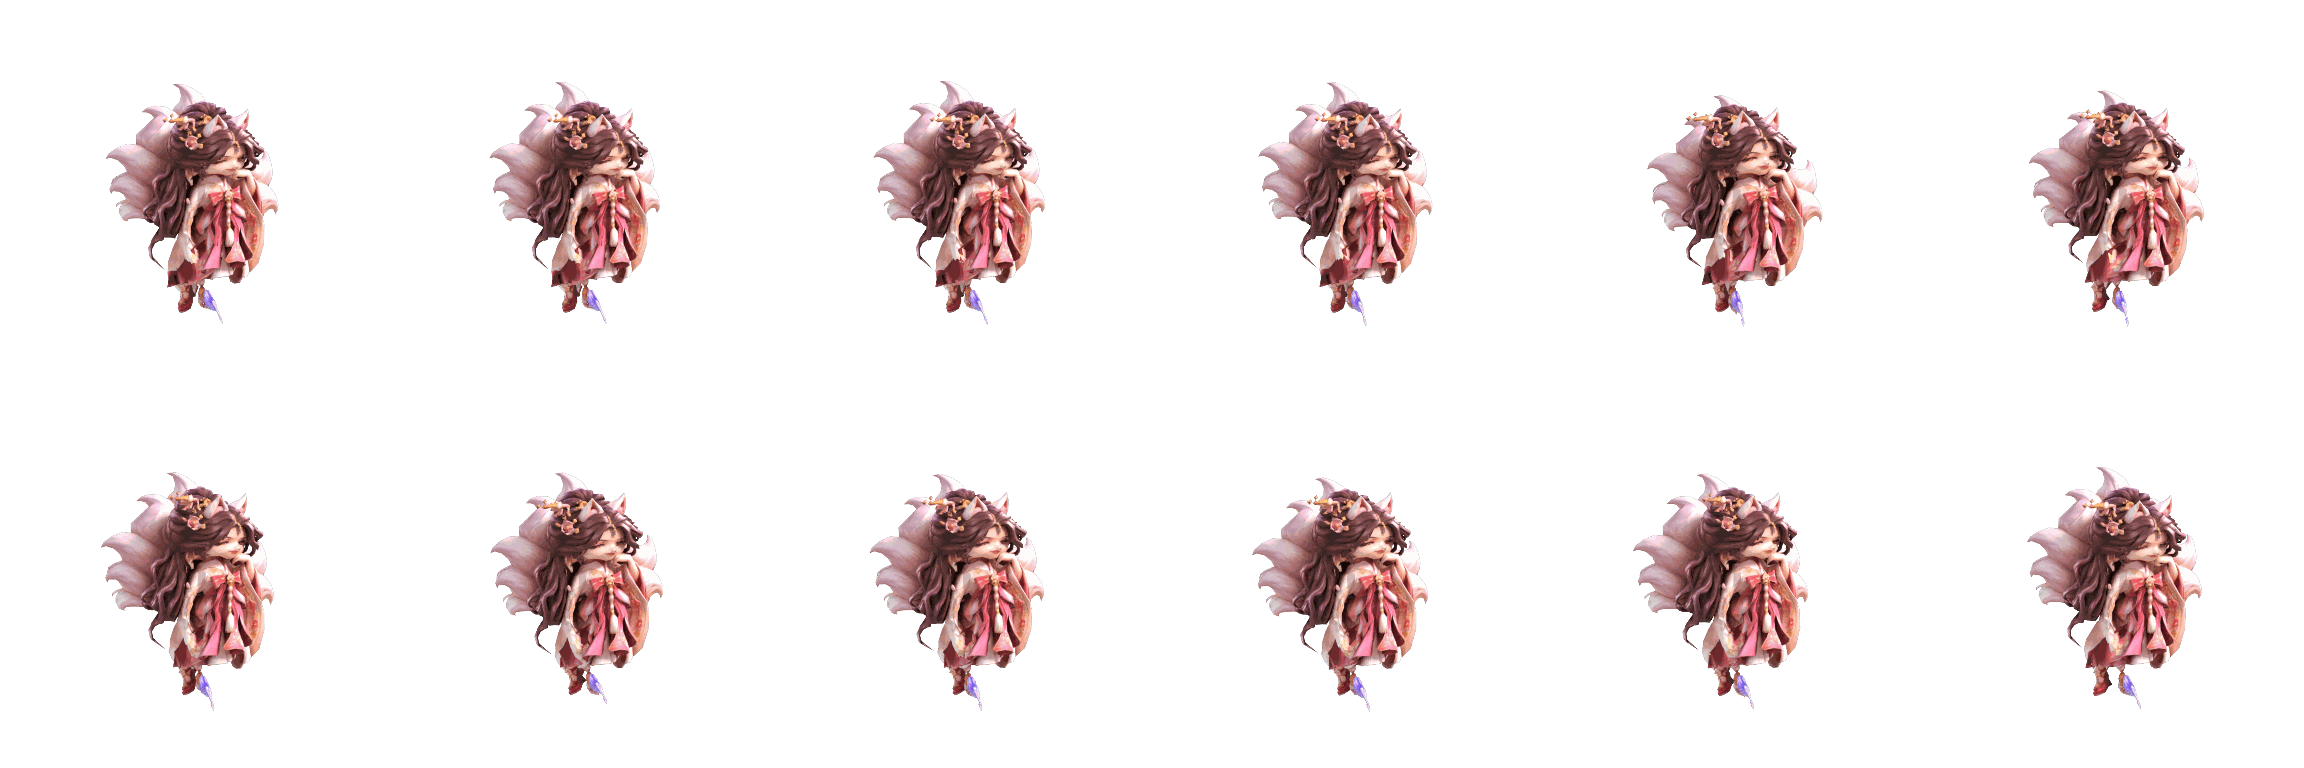
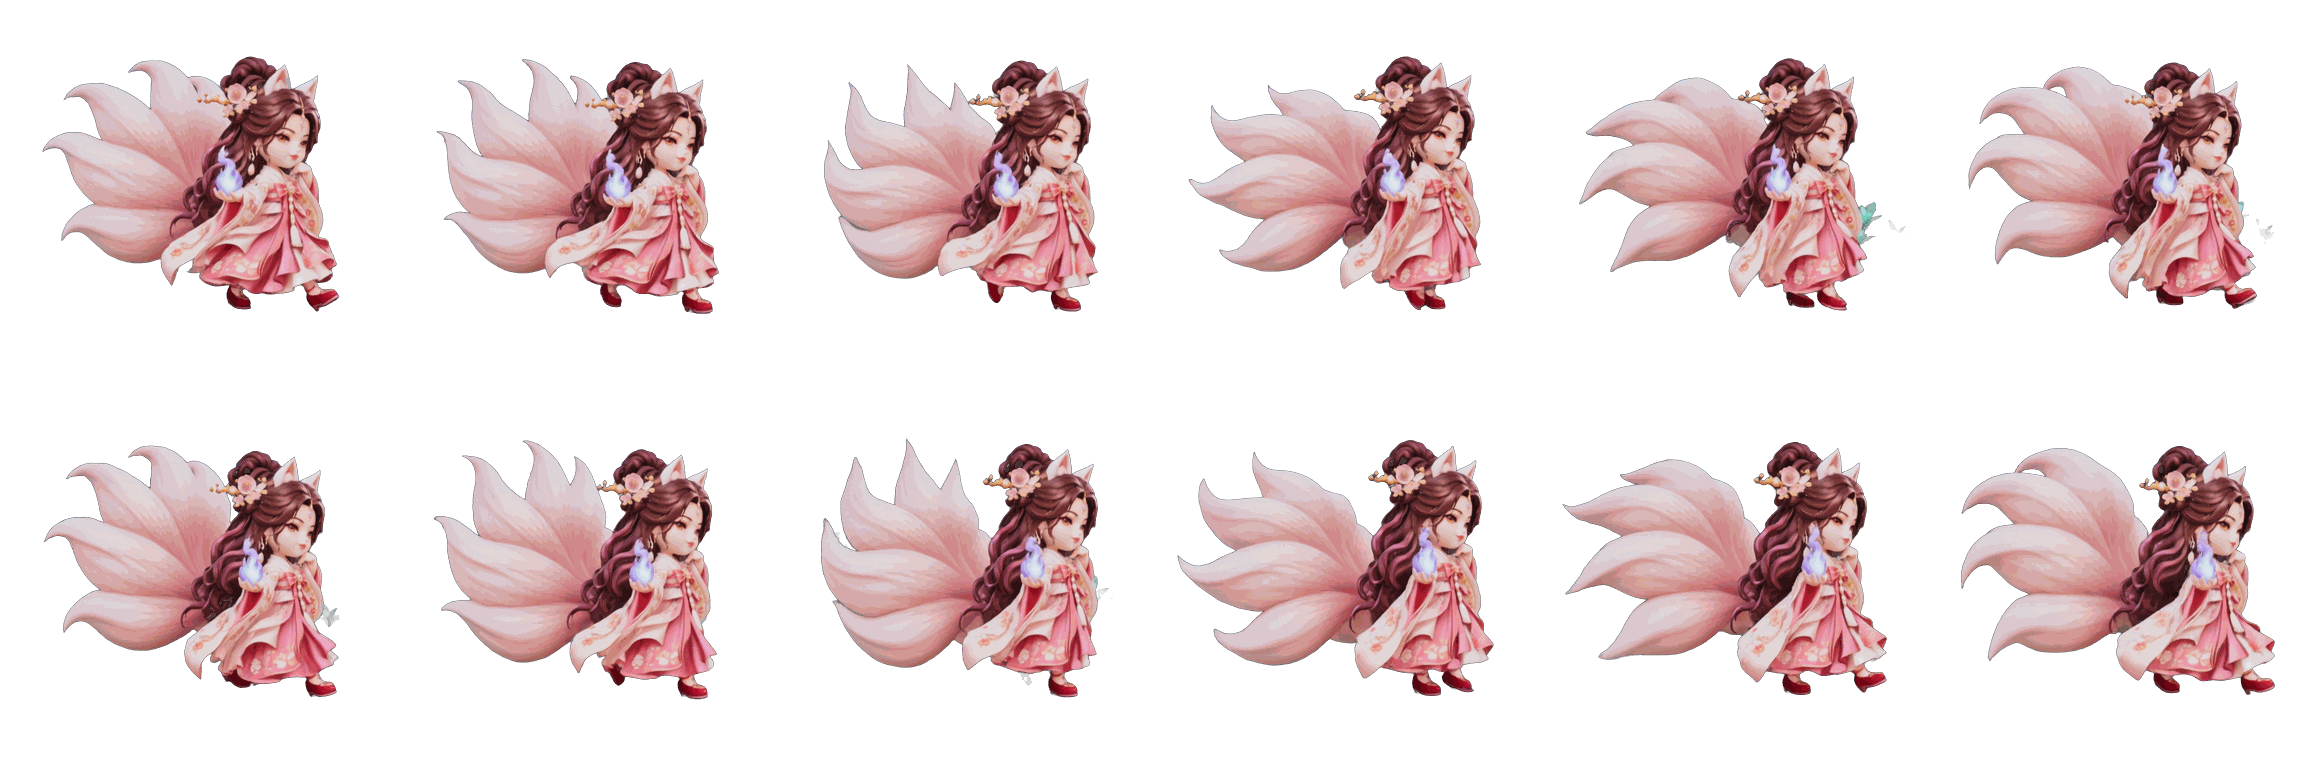
구미호 판 위 모형을 클링 영상 그림으로 바꿈 (시험)
- 사용자가 클링으로 만든 영상에서 걷기 12장을 뽑아 gumiho_walk·idle로 넣음
- tools/import_video_standee.py: 영상 → 배경 지우기 → 떨림 없이 6칸×2줄 그림

Claude-Session: https://claude.ai/code/session_01JPWR7ZFhvPeejBM3RB4Pqs

diff --git a/tools/import_video_standee.py b/tools/import_video_standee.py
@@ -1,0 +1,82 @@
+"""영상(클링 등)으로 만든 영웅 동작을 판 위 말 그림으로 넣는다.
+
+쓰는 법: python tools/import_video_standee.py <영상.mp4> <영웅 id> <동작> <처음 장면> <끝 장면> [키 비율]
+예: python tools/import_video_standee.py kling.mp4 gumiho walk 1 36
+- 영상을 장면별로 뜯고, 인공지능 배경 지우기(rembg, isnet-anime)로 인물만 남긴다.
+  (pip install "rembg[cpu]" 필요. 단색 바탕 영상이면 더 깨끗하다.)
+- 장면 범위 안에서 고르게 12장을 골라 6칸×2줄(칸 384) 그림으로 만든다.
+- 떨림 방지: 크기·가운데·발 높이를 장면마다 따로 재지 않고, 범위 전체에 걸쳐 부드럽게 이은 값(2차 곡선)으로 맞춘다.
+- 키 비율(기본 0.66)은 칸 높이에 대한 인물 전체(꼬리 포함) 높이. 발은 칸의 81.25% 땅선에 둔다.
+- 결과는 256색으로 줄여 assets/standees_anim/<id>_<동작>.png로 저장한다.
+"""
+import subprocess
+import sys
+import tempfile
+from pathlib import Path
+
+import numpy as np
+from PIL import Image
+
+ROOT = Path(__file__).resolve().parent.parent
+CELL = 384
+COLUMNS = 6
+FRAMES = 12
+FOOT = 0.8125
+
+
+def _cut(video: str, first: int, last: int) -> list:
+	from rembg import new_session, remove
+	work = Path(tempfile.mkdtemp())
+	subprocess.run(["ffmpeg", "-v", "error", "-i", video, str(work / "%03d.png")], check=True)
+	picks = np.linspace(first, last, FRAMES).round().astype(int)
+	session = new_session("isnet-anime")
+	frames = []
+	for number in picks:
+		image = remove(Image.open(work / ("%03d.png" % number)), session=session).convert("RGBA")
+		alpha = np.array(image)[:, :, 3]
+		alpha[alpha < 30] = 0
+		image.putalpha(Image.fromarray(alpha))
+		frames.append(image)
+	return frames
+
+
+def _smooth(values) -> np.ndarray:
+	x = np.arange(len(values))
+	return np.polyval(np.polyfit(x, values, 2), x)
+
+
+def build(frames: list, height_ratio: float) -> Image.Image:
+	boxes = []
+	for image in frames:
+		ys, xs = np.nonzero(np.array(image)[:, :, 3] > 128)
+		boxes.append((xs.min(), ys.min(), xs.max(), ys.max()))
+	heights = _smooth([b[3] - b[1] for b in boxes])
+	bottoms = _smooth([b[3] for b in boxes])
+	centers = _smooth([(b[0] + b[2]) / 2 for b in boxes])
+	target = CELL * height_ratio
+	# 가장 넓은 장면도 칸 안에 들어가게 줄인다.
+	shrink = min(1.0, min((CELL / 2 - 4) / max(1.0, max(c - b[0], b[2] - c) * target / h) for b, c, h in zip(boxes, centers, heights)))
+	sheet = Image.new("RGBA", (CELL * COLUMNS, CELL * (FRAMES // COLUMNS)), (0, 0, 0, 0))
+	for index, image in enumerate(frames):
+		scale = target / heights[index] * shrink
+		big = image.resize((max(1, int(image.width * scale)), max(1, int(image.height * scale))), Image.LANCZOS)
+		cell = Image.new("RGBA", (CELL, CELL), (0, 0, 0, 0))
+		cell.paste(big, (int(round(CELL / 2 - centers[index] * scale)), int(round(CELL * FOOT - bottoms[index] * scale))), big)
+		sheet.paste(cell, ((index % COLUMNS) * CELL, (index // COLUMNS) * CELL))
+	return sheet
+
+
+def main() -> None:
+	if len(sys.argv) < 6:
+		print(__doc__)
+		sys.exit(1)
+	video, hero, kind, first, last = sys.argv[1:6]
+	ratio = float(sys.argv[6]) if len(sys.argv) > 6 else 0.66
+	sheet = build(_cut(video, int(first), int(last)), ratio)
+	out = ROOT / "assets" / "standees_anim" / ("%s_%s.png" % (hero, kind))
+	sheet.quantize(256, method=Image.Quantize.FASTOCTREE).save(out, optimize=True)
+	print("넣음:", out.name)
+
+
+if __name__ == "__main__":
+	main()

diff --git a/CLAUDE.md b/CLAUDE.md
@@ -32,6 +32,7 @@
 - 소환 연출(2026-11-17, 기획서는 프로젝트 문서 `claude/주사위영웅전_소환연출기획.md`): `scripts/ui/summon_show.gd`(SummonShow, 전체 화면 한 장면). 별빛 제단 → 운명의 주사위 강림(누르거나 1.5초) → 승격(최고 등급까지 파랑→보라→금, 번쩍·흔들림) → 빛기둥 → 뒷면 카드 배치 → 차례로 뒤집기(★★★는 등장 컷: 금빛 배경·큰 초상화·음성·꽃가루) → 결과(확인·한 번 더). 건너뛰기 버튼과 자동 사진(`instant`)은 곧바로 결과 장면. 상점의 `_summon`이 `await show.play(app, 결과, 한 번 더 값)`으로 띄운다(결과는 연출 전에 저장됨). 그림은 `assets/ui_summon/`(바탕 bg_altar·bg_glory, 주사위 die_blue·purple·gold, 카드 뒷면 card_back_*, 앞면 틀 card_front_*[창 위치는 meta.json], 딱지 badge_new), 주문서 `codex_work/job_summon.md`, 넣는 도구 `tools/import_summon.py <out/summon>`. 그림이 없으면 단색으로 대신한다. 자동 사진 `09_summon`(결과)·`09a~09e`(연출 장면).
 - 타이틀 로고(2026-11-17): 사용자가 고른 ChatGPT 시안의 타이틀처럼 금빛 로고 `assets/logos/title.png`(주사위 엠블럼·월계수·보석, 글자 포함)·부제 리본 `title_ribbon.png`·금 마름모 `title_diamond.png`를 `title_screen.gd`의 `_build_art_title`이 키 아트 위에 올린다. 그림이 없으면 예전 글자 제목. 로고는 보라 보석이 지워지지 않게 가장자리와 이어진 자홍만 바탕으로 지웠다.
 - 3D 모델(트리포, 2026-11-16 시험): 꼬마 모형 그림 한 장을 트리포(Tripo) API로 3D 모델 → 뼈대 → 동작(idle·walk·slash)까지 만들고, 블렌더(화면 없이, GitHub 서버)로 찍어 12칸 가로 그림 `assets/standees_anim/<id>_<동작>.png`으로 넣는다(`GameData.standee_anims`, `board_view.gd`의 `piece_anims`: 이동 중이면 walk. 2026-11-18 사용자 지적으로 서 있을 때는 idle 그림의 첫 장면에 멈추고 `_breath`로 숨쉬기만 한다. 트리포 대기 동작은 고개를 두리번거려 목이 흔들려 보였다. 파티원 두 명은 선봉 뒤 양옆 ±0.46칸·0.22칸 위에 0.78배로 선다). 주문서는 `tripo/jobs.json`, 도구는 `tools/tripo_run.py`(API 키는 저장소 비밀값 `TRIPO_API_KEY`, 예전 v2 주소로 연결됨)·`tools/tripo_render.py`, 작업 흐름은 `.github/workflows/tripo.yml`(`claude/tripo`로 시작하는 브랜치에서 `tripo/`가 바뀌면 돈다. 결과는 실행 결과물 `tripo-out`). 한 명에 약 85크레딧. 찍는 방향은 주문서의 `view`(도, 90이 트리포 정면)로 영웅마다 정한다. 뼈대를 못 넣는 모델(말 탄 마초, 목란)은 멈춘 그림 그대로 둔다. 파티원 두 명도 `party_anims`로 움직인다. API 크레딧이 없을 때는 트리포 웹(studio.tripo3d.ai, 크롬)에서 만든다: 그림 올리기 → 생성(55) → 리토폴로지 삼각형 1만(35) → 자동 리깅(20) → 프리셋 걷기·베기·대기 선택(무료) → 내보내기(GLB, 텍스처 1k, 애니메이션 모두, 제자리). 내려받은 GLB를 `tripo/web/<id>.glb`로 넣고 주문서에 `"local"`로 적으면 찍는다. 웹에서 내보낸 모델은 정면이 대체로 0도라 `view`는 -15쯤이지만 옆을 보는 것도 있어, 찍은 그림을 보고 영웅마다 고친다(값을 키우면 그림에서 왼쪽으로 돈다). 여러 명을 내보낼 때는 크롬이 둘째 파일부터 막으므로 사용자가 '여러 파일 자동 다운로드'를 허용해야 한다. 2026-11-16에 48명 모두 넣었다(웹 38명). 2026-11-18 다시 찍음: 찍는 방향은 이제 뼈대(mixamo 이름의 좌우 어깨·팔·허벅지, 발끝)로 앞 방향을 재서 모두 앞이 화면 오른쪽으로 40도 돌아간 모습으로 맞춘다(`tripo_render.py`의 `skeleton_forward`·TURN_RIGHT, 영웅별 덧보정은 주문서의 `turn_fix`, 몇 명만 다시 찍을 때는 주문서의 `only`). 모델 원본(GLB)과 이 도구들은 `claude/tripo-web`·`claude/tripo-face` 브랜치에 있다. 결과는 `tools/import_standee_anims.py <받은 폴더>`로 넣는다(칸마다 발을 땅선 81.25%에 맞추고 걸음 오르내림은 1.5%까지만, 256색). 그림은 칸 384픽셀, 6칸씩 두 줄(2304×768)로 찍고 256색으로 줄여 넣는다(`board_view.gd`의 `_anim_region`이 예전 12칸 한 줄 그림도 읽는다). 찍기는 여섯 서버가 나눠 한다(`SHARD`). 이미 만든 작업 번호(model_task·rig_task·anim_task)를 주문서에 적어 두면 다시 만들지 않는다.
+- 영상 모형 시험(2026-11-18, 사용자 요청): 클링(Kling) 영상이 트리포 모형보다 품질이 좋아 구미호만 먼저 바꿨다. `assets/standees_anim/gumiho_walk.png`·`gumiho_idle.png`는 사용자가 클링으로 만든 3초 영상의 옆으로 걷는 앞 36장에서 12장을 골라 만든 것(공격 slash는 아직 트리포). 넣는 도구 `tools/import_video_standee.py <영상> <id> <동작> <처음> <끝> [키 비율]`(rembg isnet-anime로 배경 지움, 크기·가운데·발 높이는 범위 전체를 2차 곡선으로 이어 떨림 방지). 게임용 영상은 카메라 고정·단색 바탕·제자리 반복 동작으로 주문해야 깔끔하다. 비교 미리보기 페이지는 Claude 아티팩트 '구미호 모형 미리보기'.
 - 공격 동작(2026-11-18): 48명 모두 `assets/standees_anim/<id>_slash.png`(트리포 웹 모형은 chop, API 모형은 slash 동작을 찍음). 찍기는 `claude/tripo-slash` 브랜치(주문서 `kinds: ["slash"]`면 그 동작만 찍음, `tripo_render.py`의 KINDS). 쓰는 곳은 전투 창 `battle_overlay.gd`: 영웅 모형은 움직이는 그림(AtlasTexture, `_anim_sides`·`_set_anim_frame`)으로 서 있다가(idle 첫 장면 + 숨쉬기) 부딪칠 때 두 쪽이 함께 벤다(`_swing`, 0.6초). 웹 모형의 chop은 몸을 깊이 숙이는 장면이 있어 부딪침 번쩍임과 겹치게 맞췄다. 자동 사진 `16b_battle_slash`.
 - 화면 방식(2026-11-16): 가로 전용·전체 화면. 웹은 처음 누를 때 전체 화면과 가로 고정을 청하고(`main.gd`의 `_setup_display`, 설정의 전체 화면 켜기·끄기), 세로로 들면 안내 대신 게임이 스스로 90도 돌아 언제나 가로로 그려진다(`main.gd`의 `_fit_orientation`: 틀 전체를 돌리고 기준 크기를 720×1280으로 바꾼다). 그래서 화면 크기는 `get_viewport_rect()`가 아니라 틀(`app.size`)에서 얻고, 다른 칸의 위치는 `global_position`끼리 빼지 말고 `Kit.spot_in`으로 구한다. 화면 좌표는 `app.to_app`으로 바꾼다.
 - 가로 화면(2026-11-15 전환, 1280×720): 로비는 모두의 마블식(왼쪽 세로 메뉴·큰 영웅 카드와 장식 액자 `assets/ui_frames/lobby_frame.png`·배너·게임 시작), 맵은 원작 주사위의 잔영식(통짜 풍경 `assets/art/boards/<지형>.jpg`은 거울 2×2 이어 붙이기, 두꺼운 육각 칸 `assets/hex/<칸 종류>.png`, 가까운 카메라, 파티 3명이 함께 이동, 칸 위 물건 `assets/objects/`). 주사위와 전투는 창을 띄우지 않고 판 위에서 바로 보여 준다. 글·설명 칸은 단색 상자 대신 장식 판(`scripts/ui/ornate_box.gd`, `Kit.plate`/`Kit.panel`)과 리본 제목(`Kit.ribbon`)을 쓴다. 화면마다 판 색이 다르다(`main.gd`의 SCREEN_MOODS → `Kit.panel_tint`). 다른 화면의 아래 메뉴는 `Kit.screen_frame`의 왼쪽 자리(Dock)로 옮겨 가 세로 메뉴가 된다. 가로 배경은 `assets/art/wide/`(`GameData.art`가 WIDE_ART로 먼저 찾음), 입체 로고는 `assets/logos/`(`GameData.logo`). 시험 빌드는 PR 없이 `gh workflow run build.yml --ref <브랜치>`로 돌려 사진만 확인할 수 있다.
